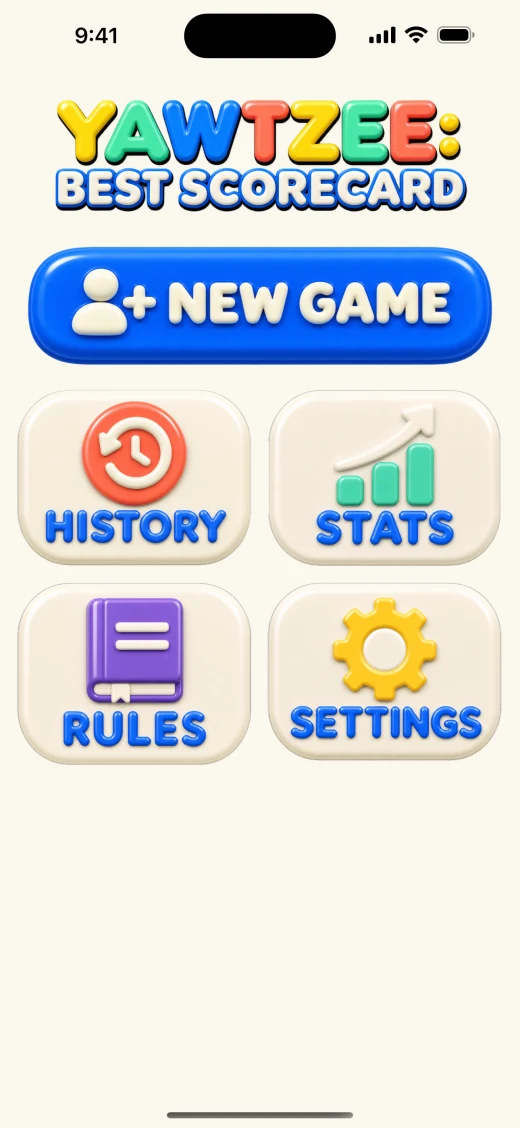
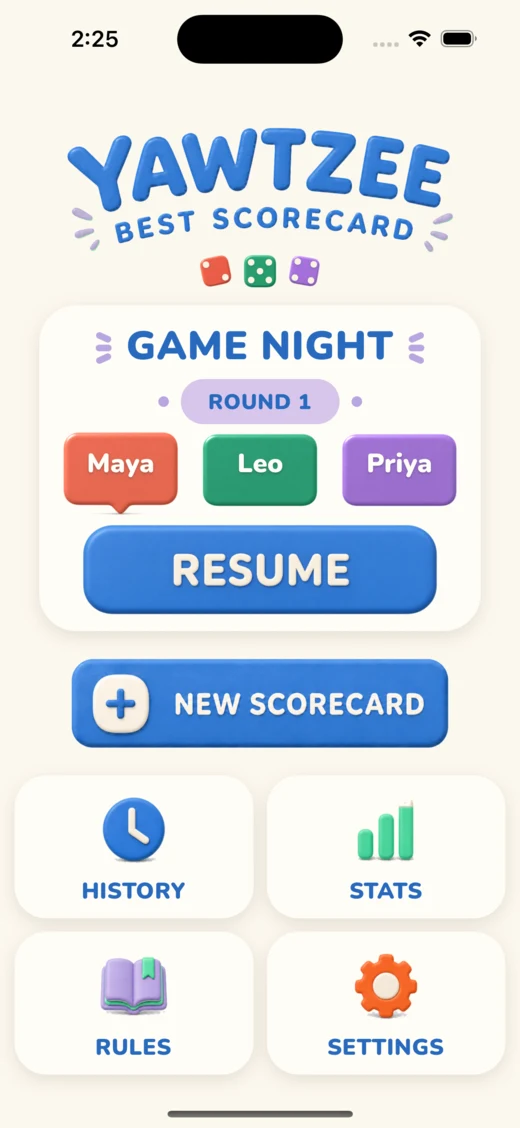
Refresh Yawtzee build 26 catalog preview

diff --git a/catalog.js b/catalog.js
@@ -93,7 +93,8 @@ window.APP_CATALOG = [
     description: "A cheerful, tactile score sheet for keeping real five-dice games moving with friends and family.",
     icon: "/assets/icons/clay-scorecard.webp",
     screenshot: "/assets/screenshots/yawtzee-best-scorecard.webp",
-    screenshotAlt: "Yawtzee: Best Scorecard home screen with new game, history, statistics, rules, and settings actions",
+    screenshotVersion: "20260824.2",
+    screenshotAlt: "Yawtzee: Best Scorecard home screen with a resumable Game Night, new scorecard, history, statistics, rules, and settings actions",
     status: "coming",
     statusLabel: "Coming soon",
     accent: "clay",

diff --git a/assets/screenshots/README.md b/assets/screenshots/README.md
@@ -8,7 +8,7 @@ Imported and verified through August 24, 2026:
 | --- | --- |
 | `abc-smash.webp` | App Store Connect, Apple ID `6798801210`, en-US iPhone screenshot `app-store-child-1242x2688.png` |
 | `calcspace.webp` | Current CalcSpace `iphone-6.9/01-chooser.png` source used by the public App Store 1.0.1 listing, refreshed August 24, 2026 |
-| `yawtzee-best-scorecard.webp` | Real Yawtzee: Best Scorecard native app captured at the App Store `1290×2796` iPhone 6.7-inch size, then resized for the showcase |
+| `yawtzee-best-scorecard.webp` | Real Yawtzee: Best Scorecard build 26 native active-game home screen captured at `1179×2556` on the dedicated iPhone simulator and resized to `520×1128`, refreshed August 24, 2026 |
 | `deal-analyzer.webp` | Current Deal Analyzer App Store preview source `premium-previews/source/01-home.png`, refreshed August 24, 2026 |
 | `dream-journal.webp` | Current Dream Journal App Store 1.0.2 preview source `premium-previews/source/01-summary.png`, refreshed August 24, 2026 |
 | `easy-audio-notes.webp` | App Store Connect, Apple ID `6798798592`, en-US iPhone screenshot `build2-record-iphone.png` |
